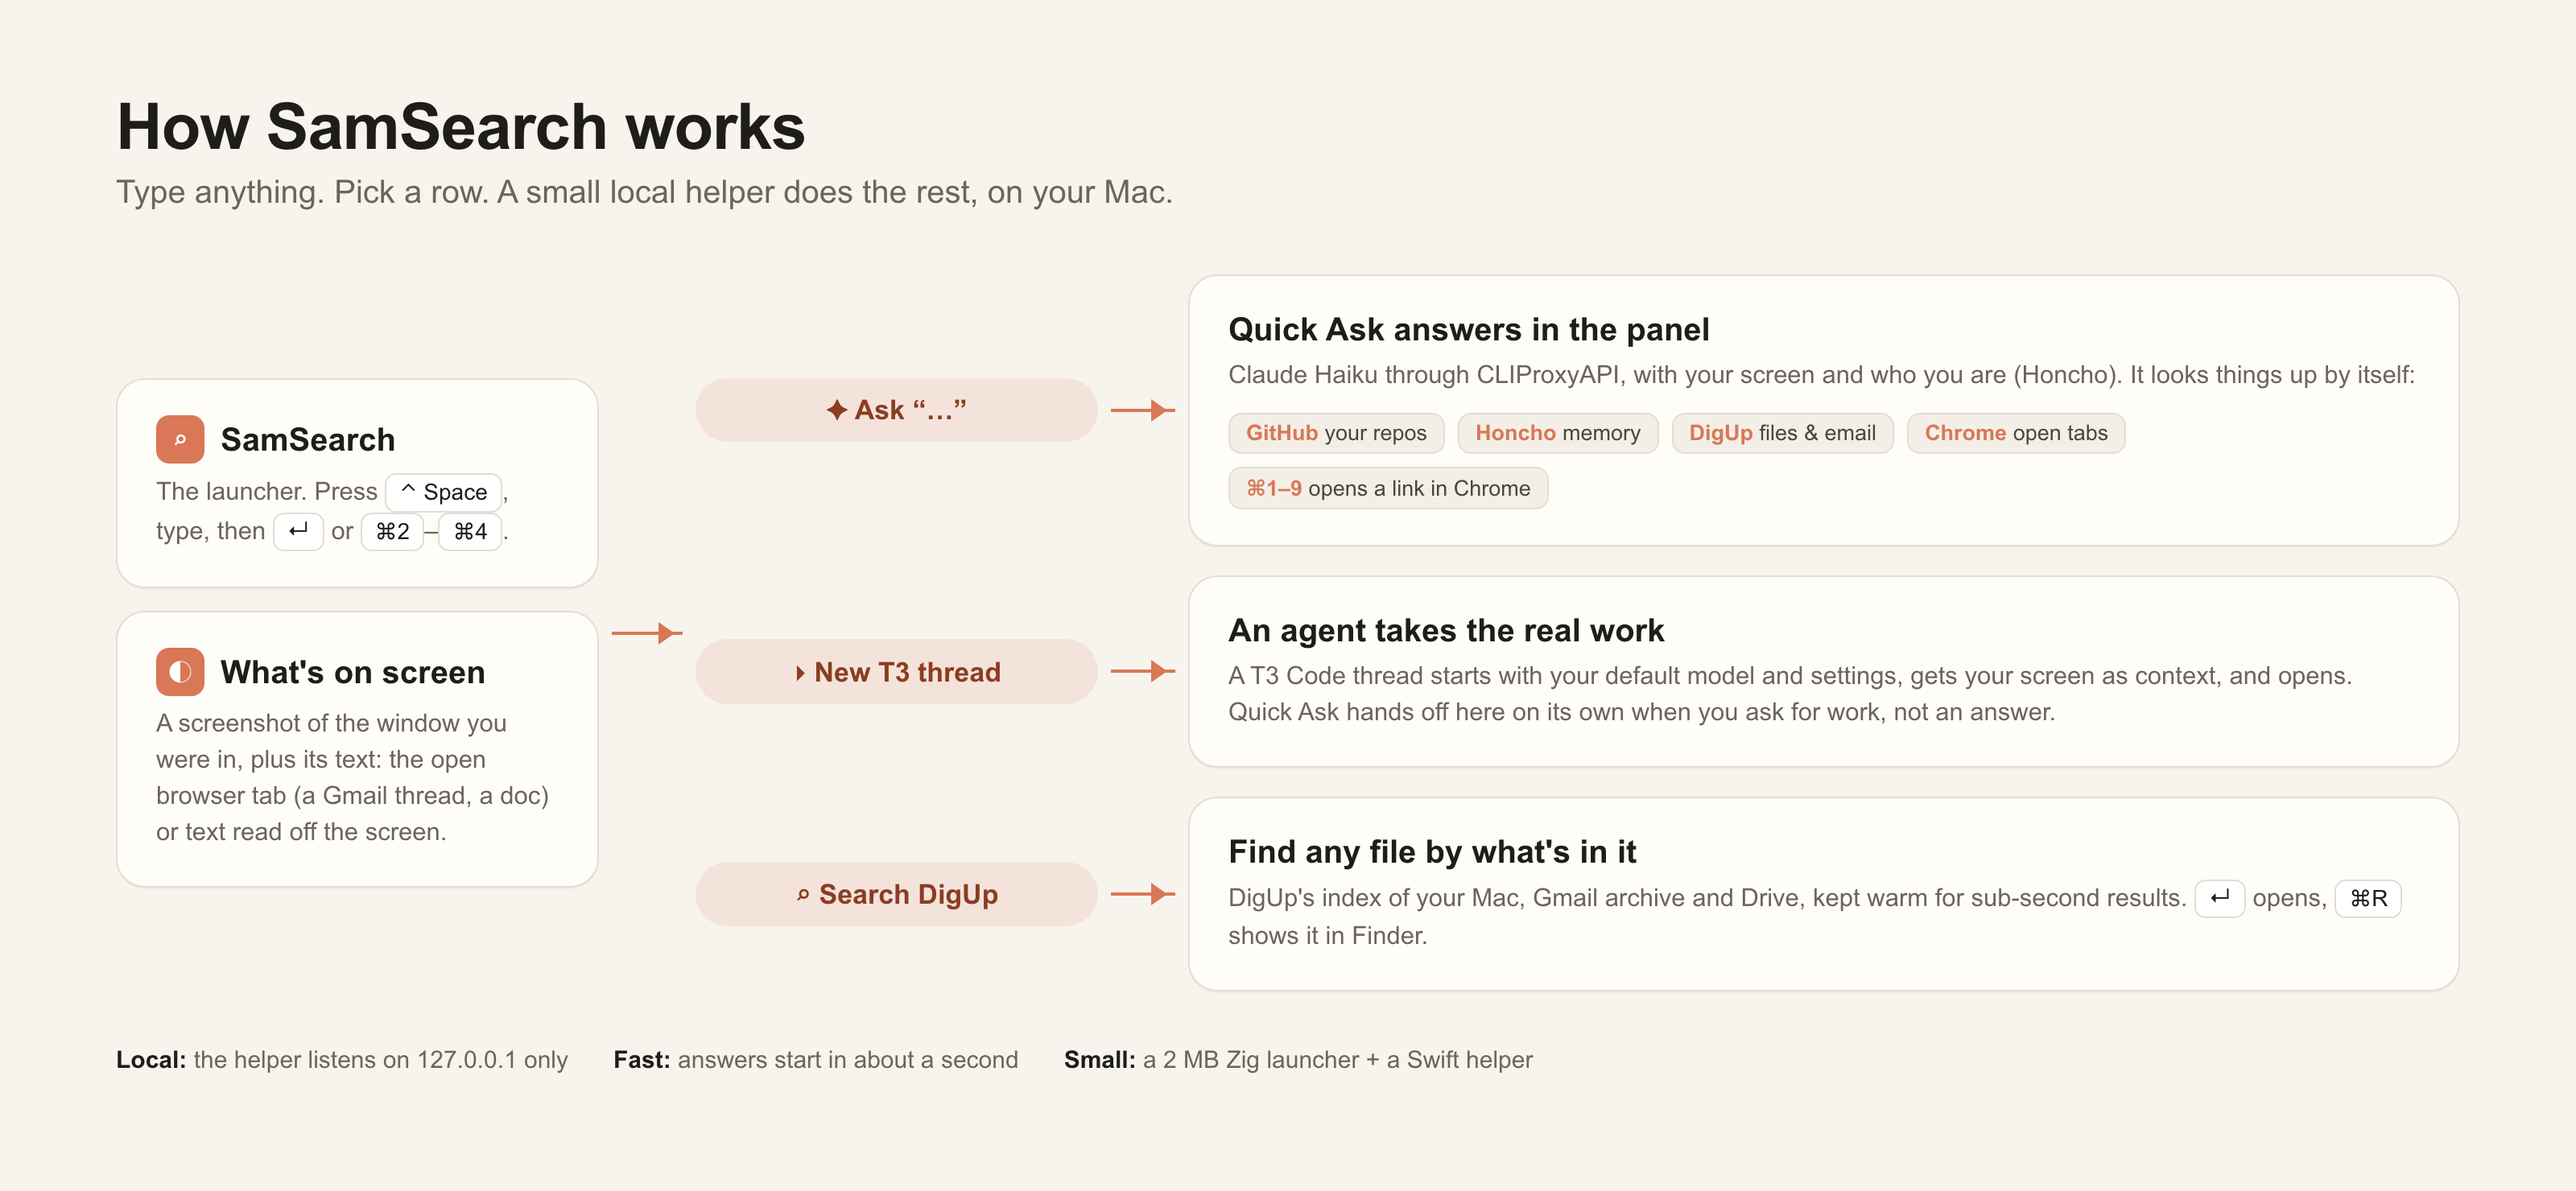
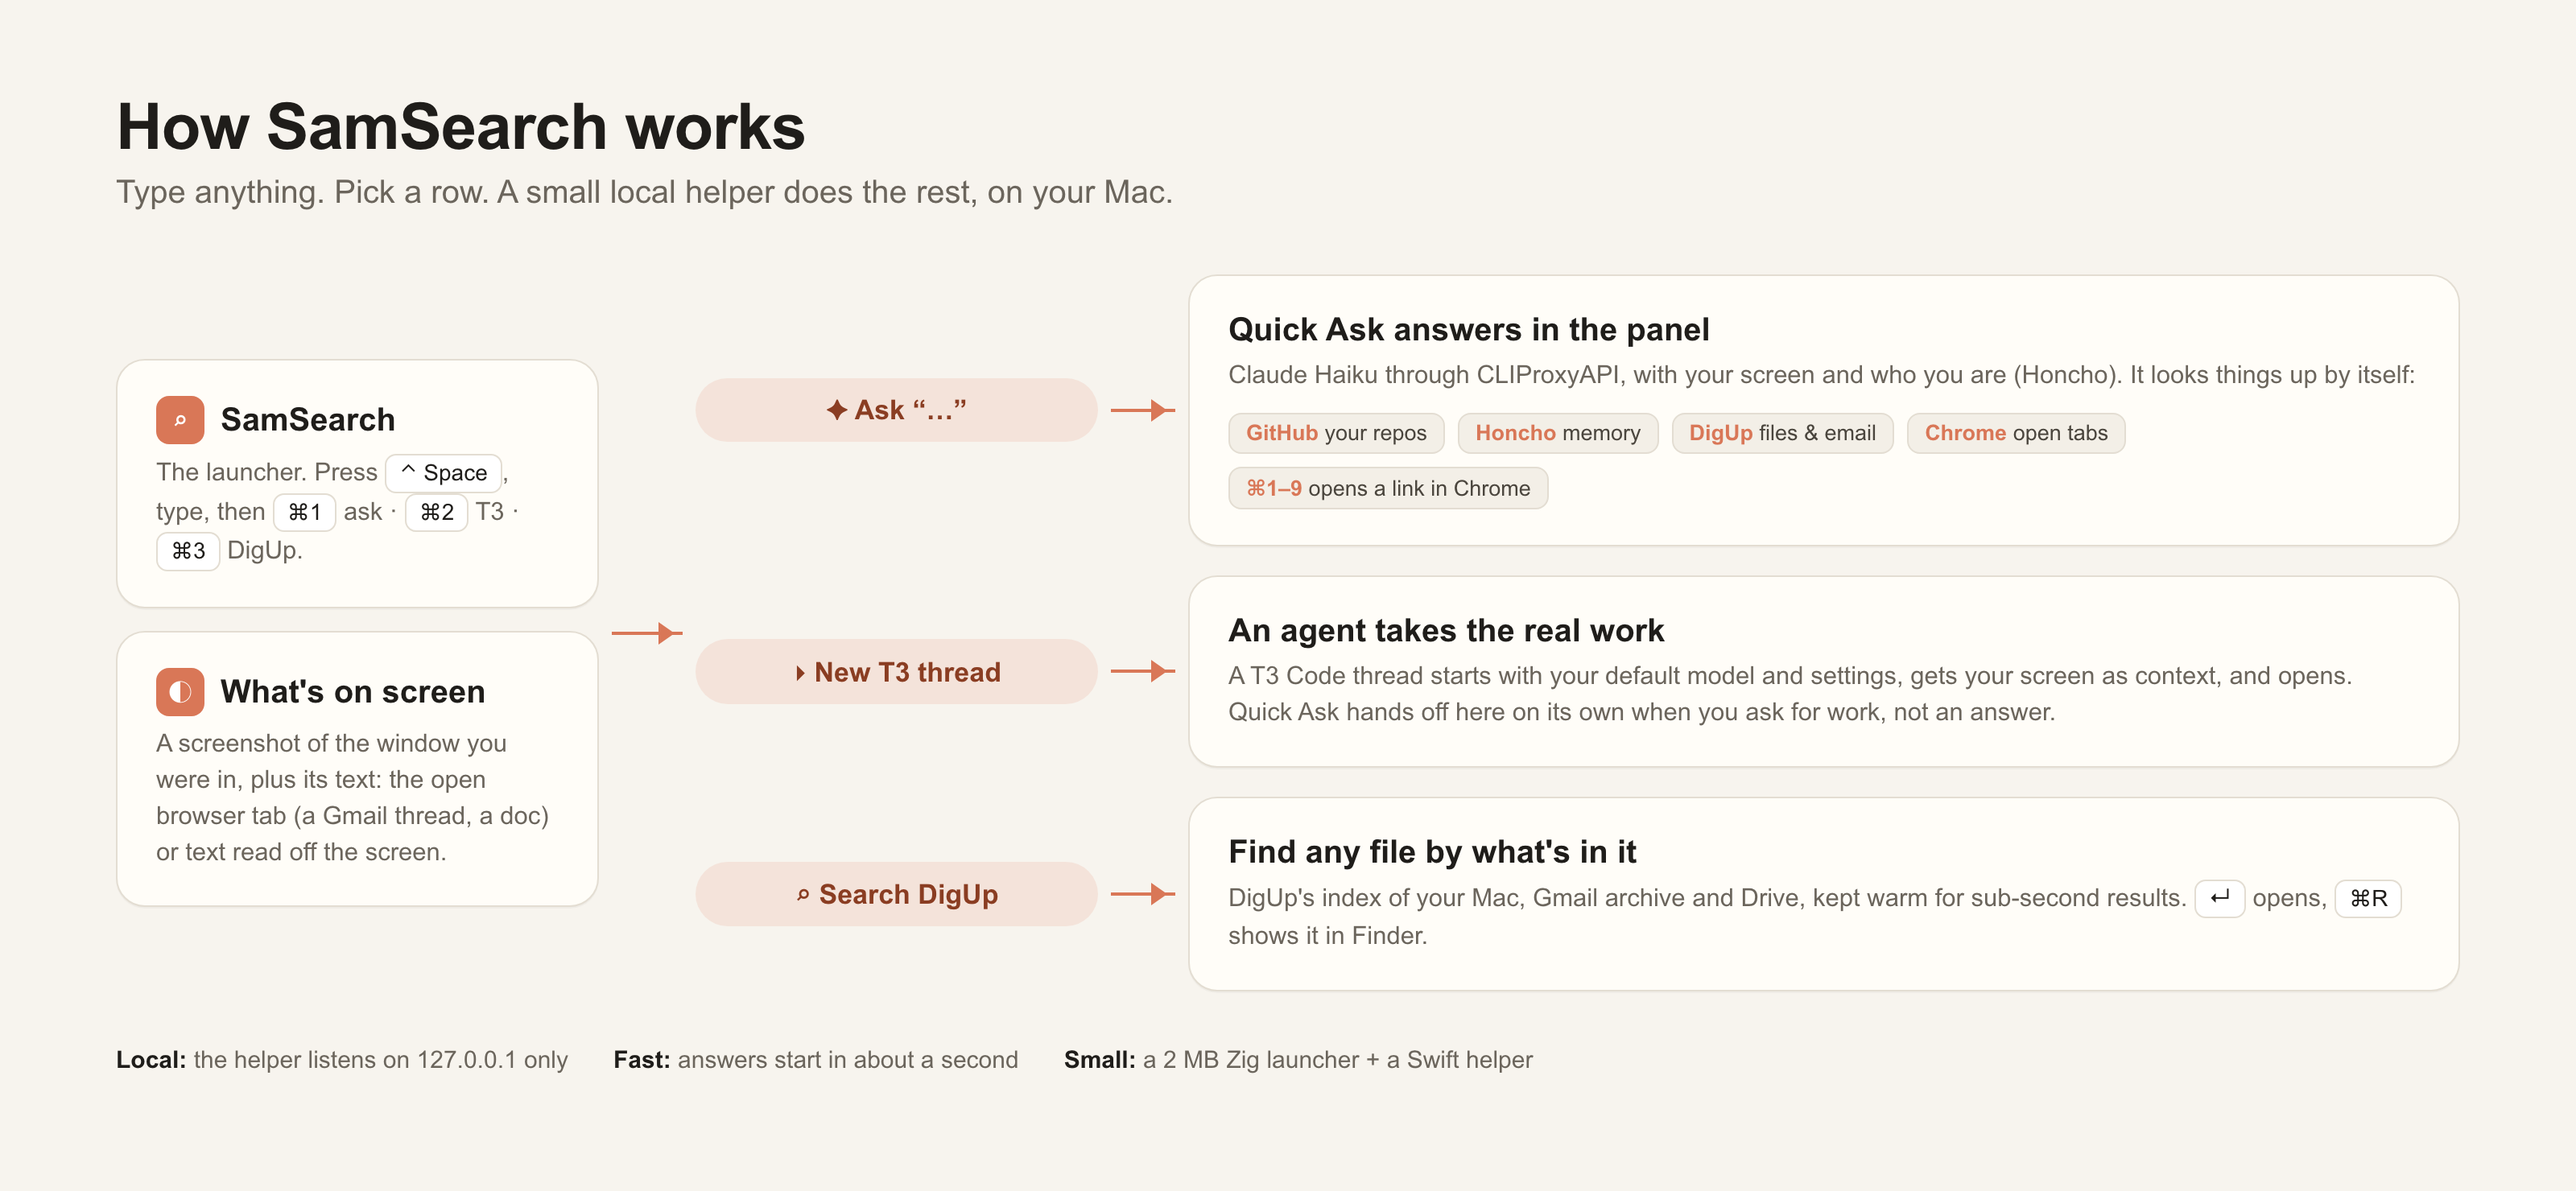
One app: Quick Ask bundled inside SamSearch; Ask, T3 and DigUp are always ⌘1–⌘3
- macos/install.sh builds the launcher with the helper in Contents/Helpers,
  signs both with the Apple Development certificate, installs and starts it.
- SamSearch starts its bundled helper at launch (src/helper_mac.zig).
- Results.number/rowFor: Ask ⌘1, New T3 thread ⌘2, Search DigUp ⌘3 wherever
  they sit; other rows count on from ⌘4 (plain ⌘1–⌘9 when no handoffs show).

Changed region(s): [[0.0625, 0.5284, 0.2188, 0.7459], [0.0625, 0.3108, 0.1875, 0.4973]]

diff --git a/README.md b/README.md
@@ -31,8 +31,8 @@
 </p>
 
 Launchers are good at opening apps and bad at everything after. SamSearch keeps the fast launcher
-and adds three rows under whatever you type: **ask** a fast model that can see your screen,
-**hand the task to an agent** in T3 Code, or **find the file** with DigUp.
+and adds three rows under whatever you type, always on the same keys: **⌘1 ask** a fast model
+that can see your screen, **⌘2 hand the task to an agent** in T3 Code, or **⌘3 find the file** with DigUp.
 
 - **It sees what you see.** A screenshot of the window you were in, plus its real text: the Gmail thread, the doc, the page.
 - **It knows you.** Your profile and memory from Honcho, your GitHub repos, your files and email, your open tabs.
@@ -64,7 +64,7 @@ Files by what's in them · PDFs, screenshots, recordings · your Gmail archive a
 
 ## ✦ Quick Ask
 
-Type a question, pick **Ask** (or press its ⌘ number). Claude Haiku answers right in the panel, usually starting within a second.
+Type a question and press **⌘1** (or pick **Ask**). Claude Haiku answers right in the panel, usually starting within a second.
 
 <p align="center"><img src=".github/assets/ask.jpg" alt="Quick Ask in the panel: it read the Gmail thread on screen and listed what the sponsor wants, then found the hooklab repo link, with ⌘1 to open it" width="760"></p>
 
@@ -75,11 +75,11 @@ Type a question, pick **Ask** (or press its ⌘ number). Claude Haiku answers ri
 
 ## ▸ New T3 thread
 
-Pick **New T3 thread** and SamSearch starts a [T3 Code](https://t3.codes) thread in your project with its default model and settings, with your screen attached as context, then jumps to it. Quick Ask does the same on its own when you ask it for work instead of an answer.
+Press **⌘2** (or pick **New T3 thread**) and SamSearch starts a [T3 Code](https://t3.codes) thread in your project with its default model and settings, with your screen attached as context, then jumps to it. Quick Ask does the same on its own when you ask it for work instead of an answer.
 
 ## ⌕ DigUp search
 
-Pick **Search DigUp** to search your Mac by meaning with DigUp: documents, PDFs, screenshots, images, recordings, and your Gmail and Drive archive. DigUp stays warm in the background, so results land in under a second.
+Press **⌘3** (or pick **Search DigUp**) to search your Mac by meaning with DigUp: documents, PDFs, screenshots, images, recordings, and your Gmail and Drive archive. DigUp stays warm in the background, so results land in under a second.
 
 <p align="center"><img src=".github/assets/digup.jpg" alt="DigUp results in the panel for &quot;sponsor invoice october&quot;: an invoice PDF, an email, a payment screenshot, a thumbnail, a rate card and a call recording" width="760"></p>
 
@@ -94,7 +94,7 @@ SamSearch is the launcher (`src/`, Zig). Its three rows talk to **Quick Ask** (`
 | Folder | What's inside |
 | --- | --- |
 | `src/` | The launcher: rows, panel, in-panel pages, Raycast extensions (from Nanolight) |
-| `quickask/` | The helper: `main.swift` (server, screen context, Haiku and its tools, DigUp, T3), `ask.html`, `digup.html` |
+| `quickask/` | The helper (bundled into the app by `macos/install.sh`): `main.swift` (server, screen context, Haiku and its tools, DigUp, T3), `ask.html`, `digup.html` |
 | `extensions/quick-ask/` | Quick Ask and New T3 Thread as Raycast-style commands |
 | `docs/reverse-engineering/` | How the closed Nanolight 0.2.6 binary was taken apart with REA and Rizin before its source turned up |
 
@@ -104,9 +104,10 @@ You need a Mac with Apple silicon on macOS 14+, [Zig 0.17](https://ziglang.org) 
 
 ```sh
 git clone https://github.com/Samin12/samsearch && cd samsearch
-zig build app && cp -R zig-out/SamSearch.app /Applications/   # the launcher
-sh quickask/build.sh                                           # the helper, started for you
+sh macos/install.sh
 ```
+
+One app: the launcher with its Quick Ask helper inside (`Contents/Helpers`), signed with your Apple Development certificate so macOS permissions survive rebuilds, installed to `/Applications` and started. SamSearch starts its helper itself.
 
 Open **SamSearch**, pick the key that opens it, and allow **Quick Ask** in System Settings → Privacy & Security → **Screen Recording**. The first time it reads a browser tab, macOS asks to let it control the browser. Using Nanolight already? Quit it first (they want the same key); SamSearch copies its Raycast extensions and script commands over.
 
